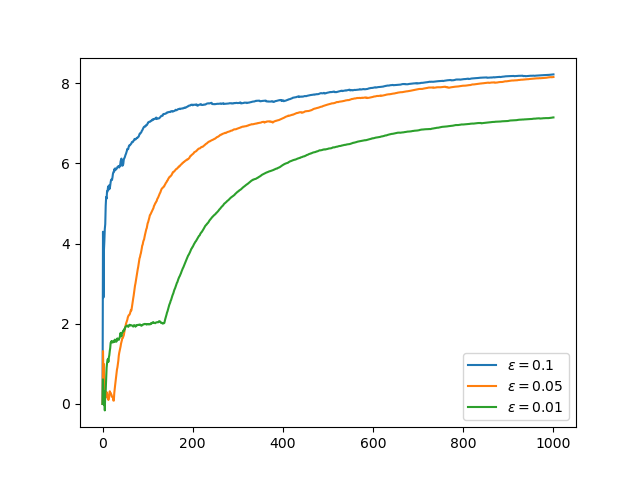
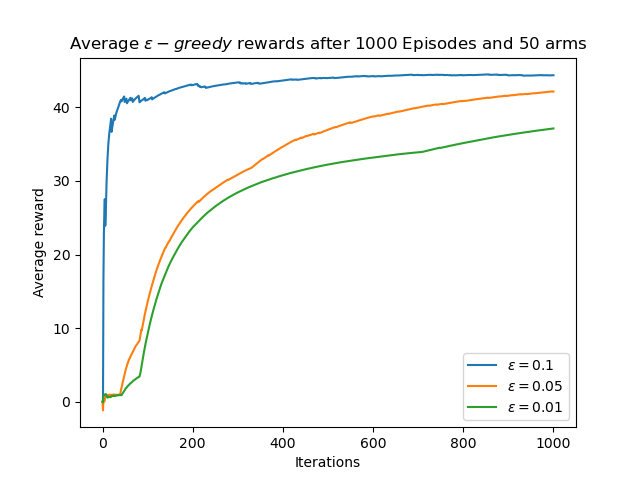
Add label and title to the plot

diff --git a/src/main.py b/src/main.py
@@ -4,7 +4,7 @@ import matplotlib.pyplot as plt
 from Bandit import Bandit
 from Agent import Agent
 
-ARMS = 10
+ARMS = 50
 ITERS = 1000
 
 bandit = Bandit(ARMS)
@@ -18,4 +18,8 @@ for i in [0.1, 0.05, 0.01]:
     plt.plot(x, averageReward, label=f"$\epsilon={i}$")
 
 plt.legend()
+plt.xlabel("Iterations")
+plt.ylabel("Average reward")
+plt.title("Average $\epsilon-greedy$ rewards after " + str(ITERS) 
+    + " Episodes and " + str(ARMS) + " arms")
 plt.show()
